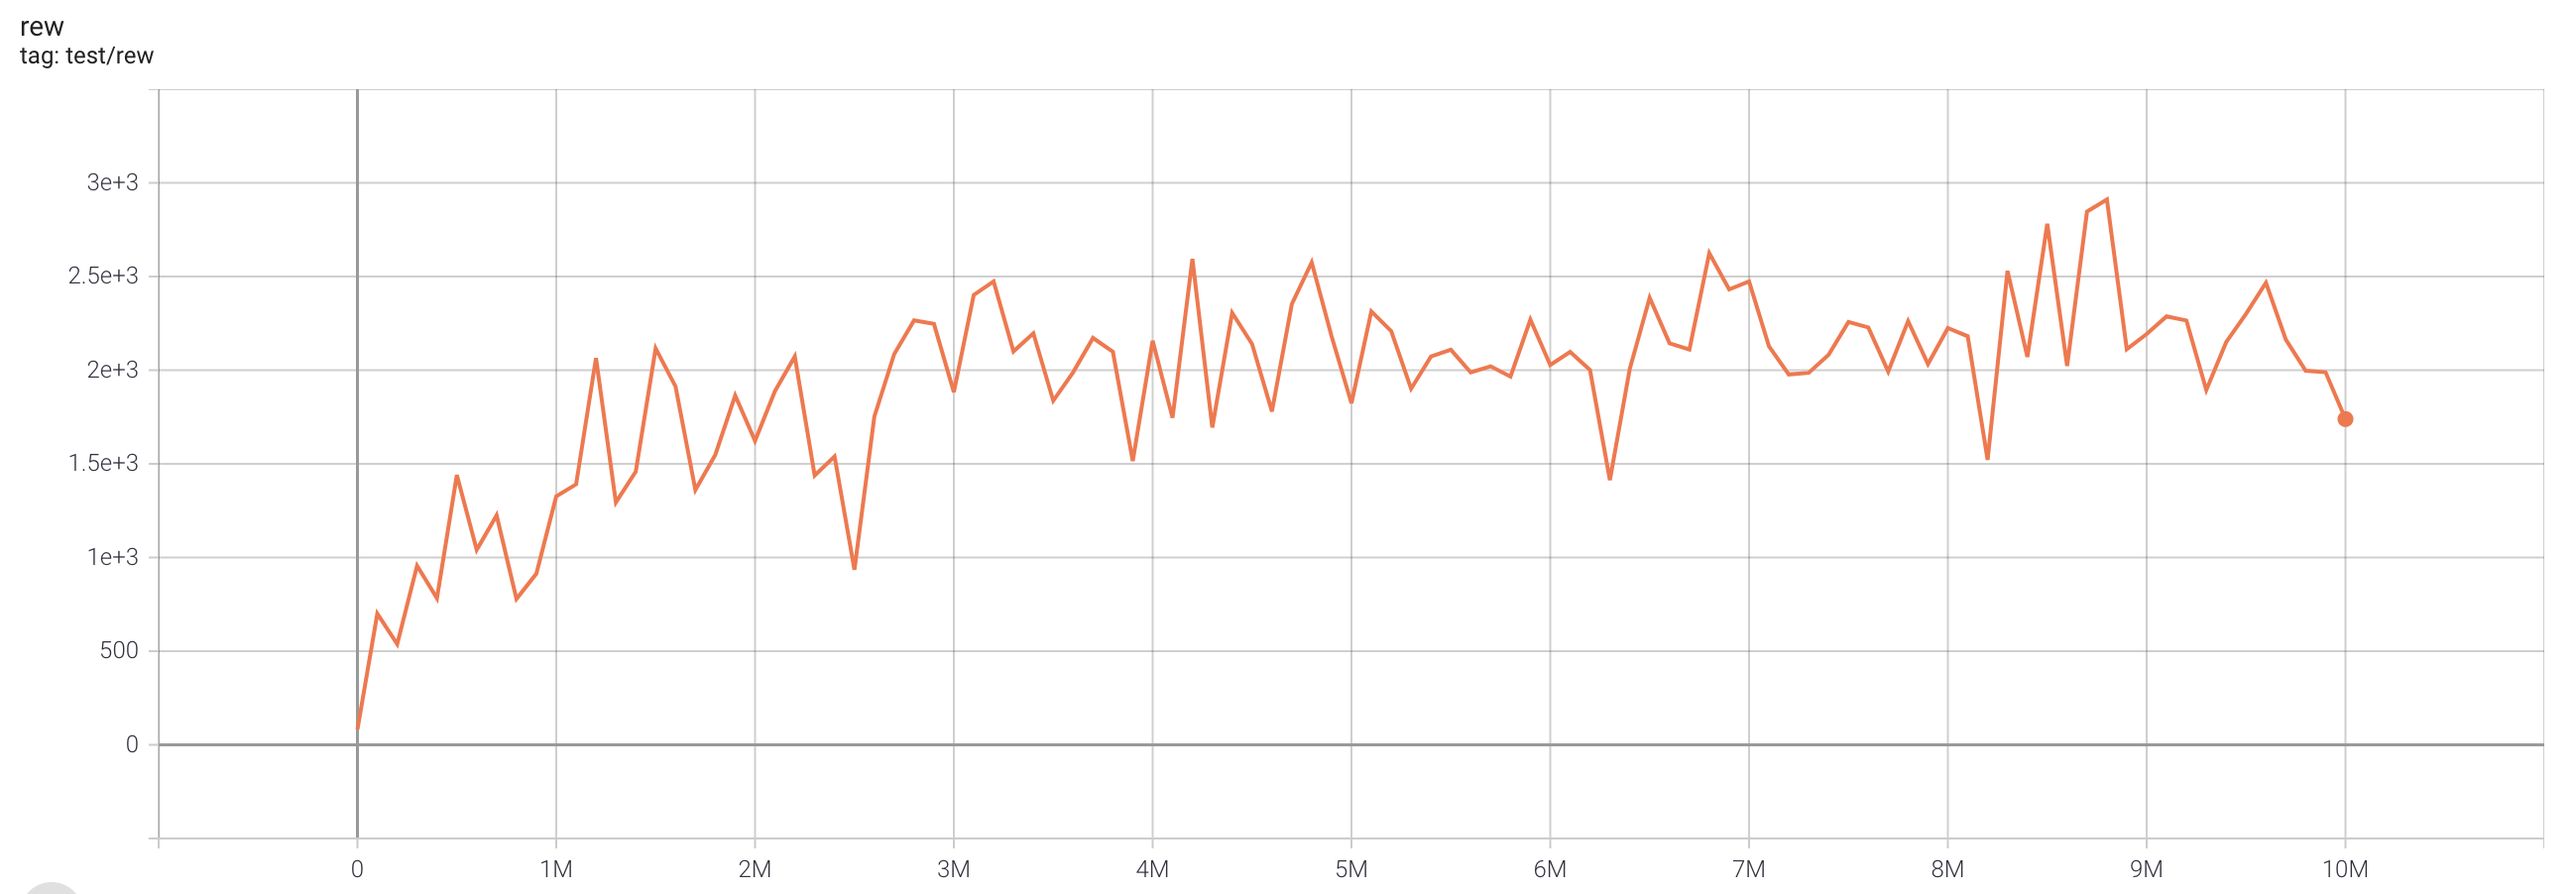
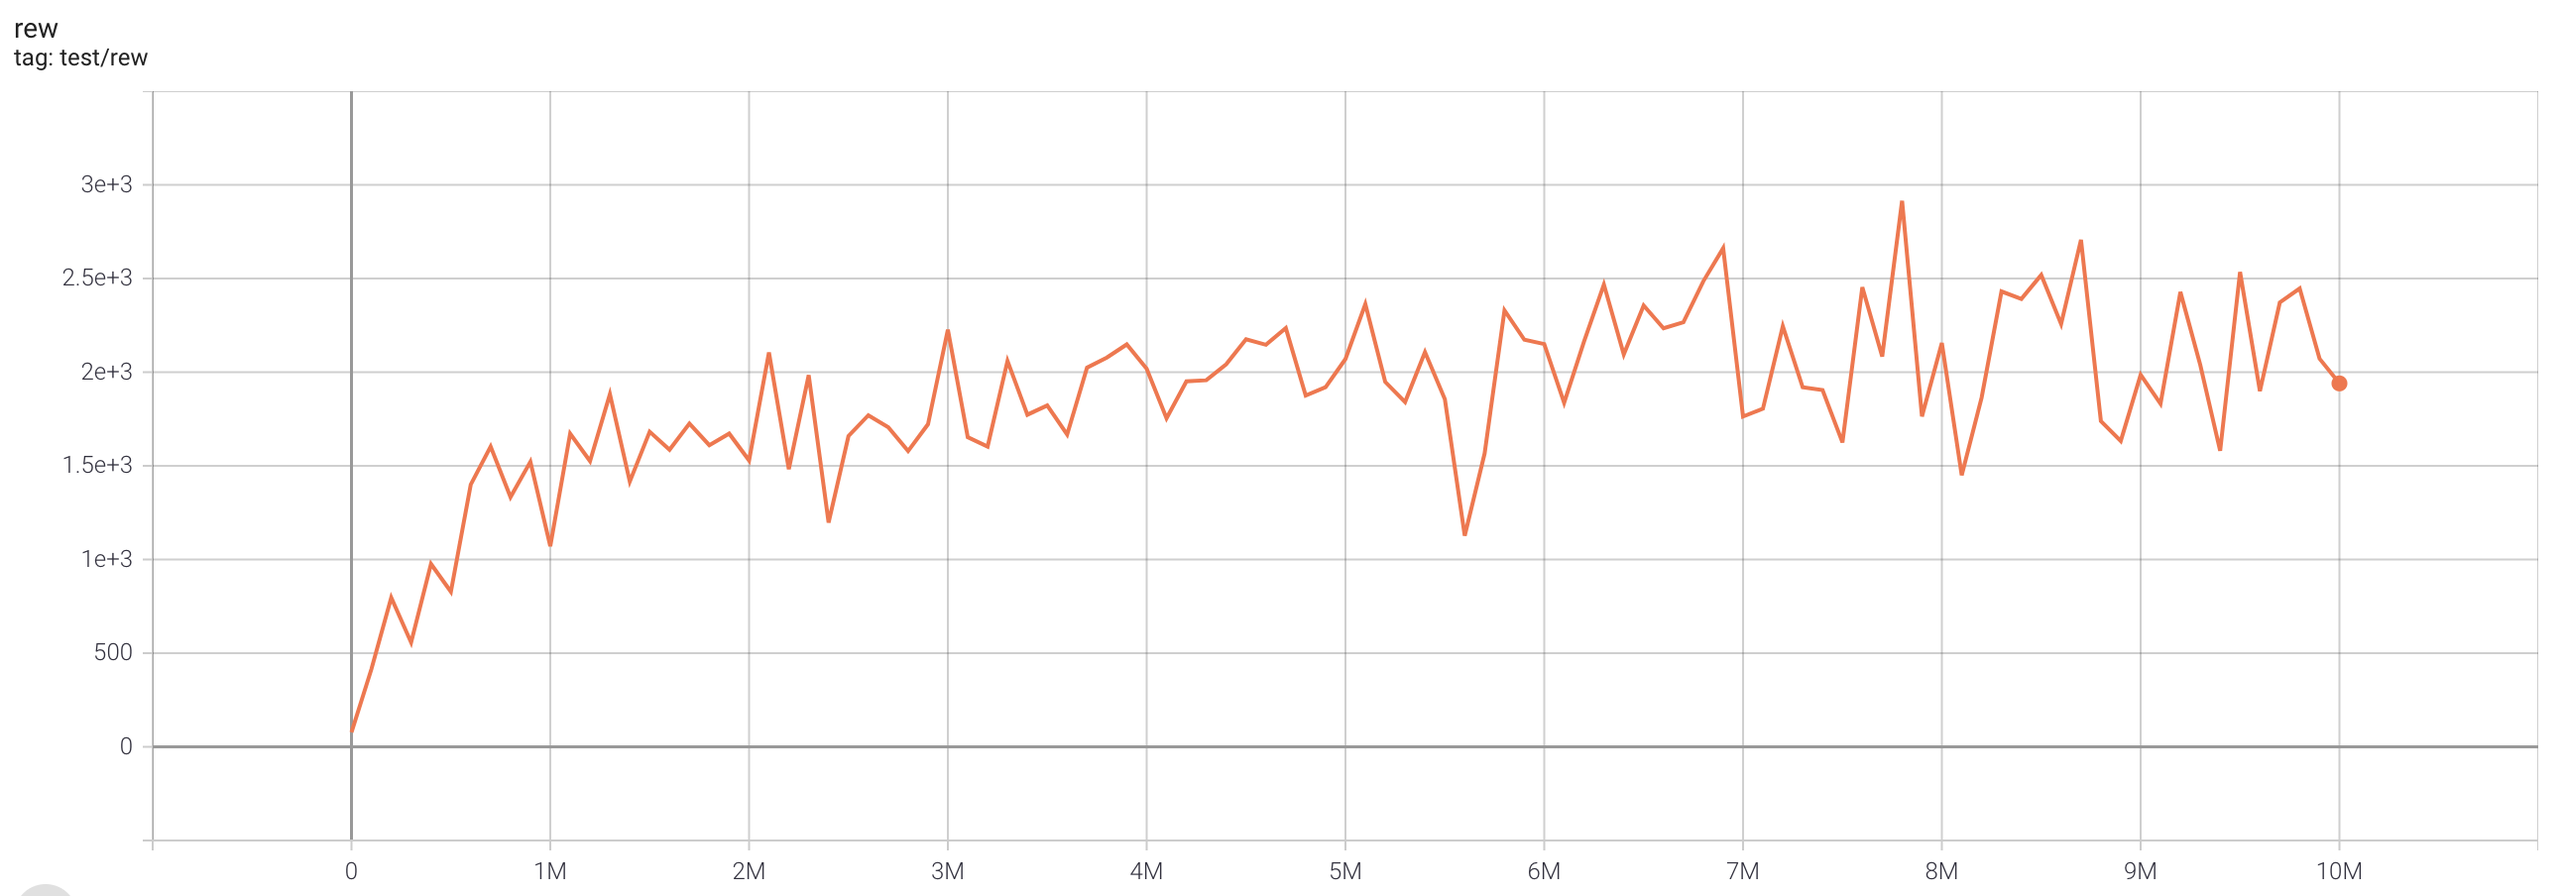
update iqn results and reward plots

diff --git a/examples/atari/README.md b/examples/atari/README.md
@@ -60,13 +60,13 @@ One epoch here is equal to 100,000 env step, 100 epochs stand for 10M.
 
 | task                        | best reward | reward curve                          | parameters                                                   |
 | --------------------------- | ----------- | ------------------------------------- | ------------------------------------------------------------ |
-| PongNoFrameskip-v4          | 20.9        | ![](results/iqn/Pong_rew.png)         | `python3 atari_iqn.py --task "PongNoFrameskip-v4" --batch-size 64` |
-| BreakoutNoFrameskip-v4      | 578.3       | ![](results/iqn/Breakout_rew.png)     | `python3 atari_iqn.py --task "BreakoutNoFrameskip-v4" --n-step 1` |
-| EnduroNoFrameskip-v4        | 1507        | ![](results/iqn/Enduro_rew.png)       | `python3 atari_iqn.py --task "EnduroNoFrameskip-v4"`  |
-| QbertNoFrameskip-v4         | 15520       | ![](results/iqn/Qbert_rew.png)        | `python3 atari_iqn.py --task "QbertNoFrameskip-v4"`  |
-| MsPacmanNoFrameskip-v4      | 2911        | ![](results/iqn/MsPacman_rew.png)     | `python3 atari_iqn.py --task "MsPacmanNoFrameskip-v4"`  |
-| SeaquestNoFrameskip-v4      | 6236        | ![](results/iqn/Seaquest_rew.png)     | `python3 atari_iqn.py --task "SeaquestNoFrameskip-v4"`  |
-| SpaceInvadersNoFrameskip-v4 | 1370        | ![](results/iqn/SpaceInvader_rew.png) | `python3 atari_iqn.py --task "SpaceInvadersNoFrameskip-v4"`  |
+| PongNoFrameskip-v4          | 20.3        | ![](results/iqn/Pong_rew.png)         | `python3 atari_iqn.py --task "PongNoFrameskip-v4" --batch-size 64` |
+| BreakoutNoFrameskip-v4      | 496.7       | ![](results/iqn/Breakout_rew.png)     | `python3 atari_iqn.py --task "BreakoutNoFrameskip-v4" --n-step 1` |
+| EnduroNoFrameskip-v4        | 1545        | ![](results/iqn/Enduro_rew.png)       | `python3 atari_iqn.py --task "EnduroNoFrameskip-v4"`  |
+| QbertNoFrameskip-v4         | 15342.5     | ![](results/iqn/Qbert_rew.png)        | `python3 atari_iqn.py --task "QbertNoFrameskip-v4"`  |
+| MsPacmanNoFrameskip-v4      | 2915        | ![](results/iqn/MsPacman_rew.png)     | `python3 atari_iqn.py --task "MsPacmanNoFrameskip-v4"`  |
+| SeaquestNoFrameskip-v4      | 4874        | ![](results/iqn/Seaquest_rew.png)     | `python3 atari_iqn.py --task "SeaquestNoFrameskip-v4"`  |
+| SpaceInvadersNoFrameskip-v4 | 1498.5      | ![](results/iqn/SpaceInvaders_rew.png) | `python3 atari_iqn.py --task "SpaceInvadersNoFrameskip-v4"`  |
 
 # BCQ
 
